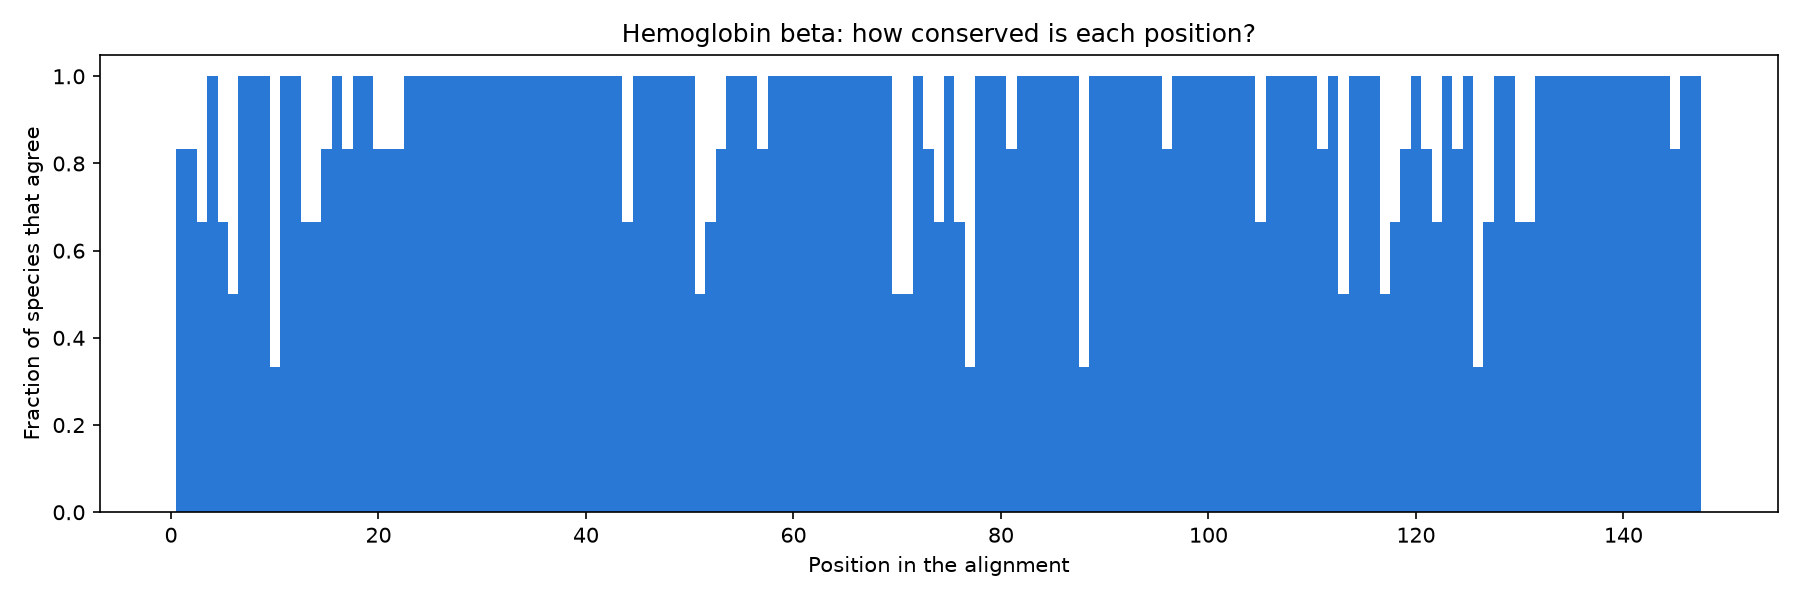
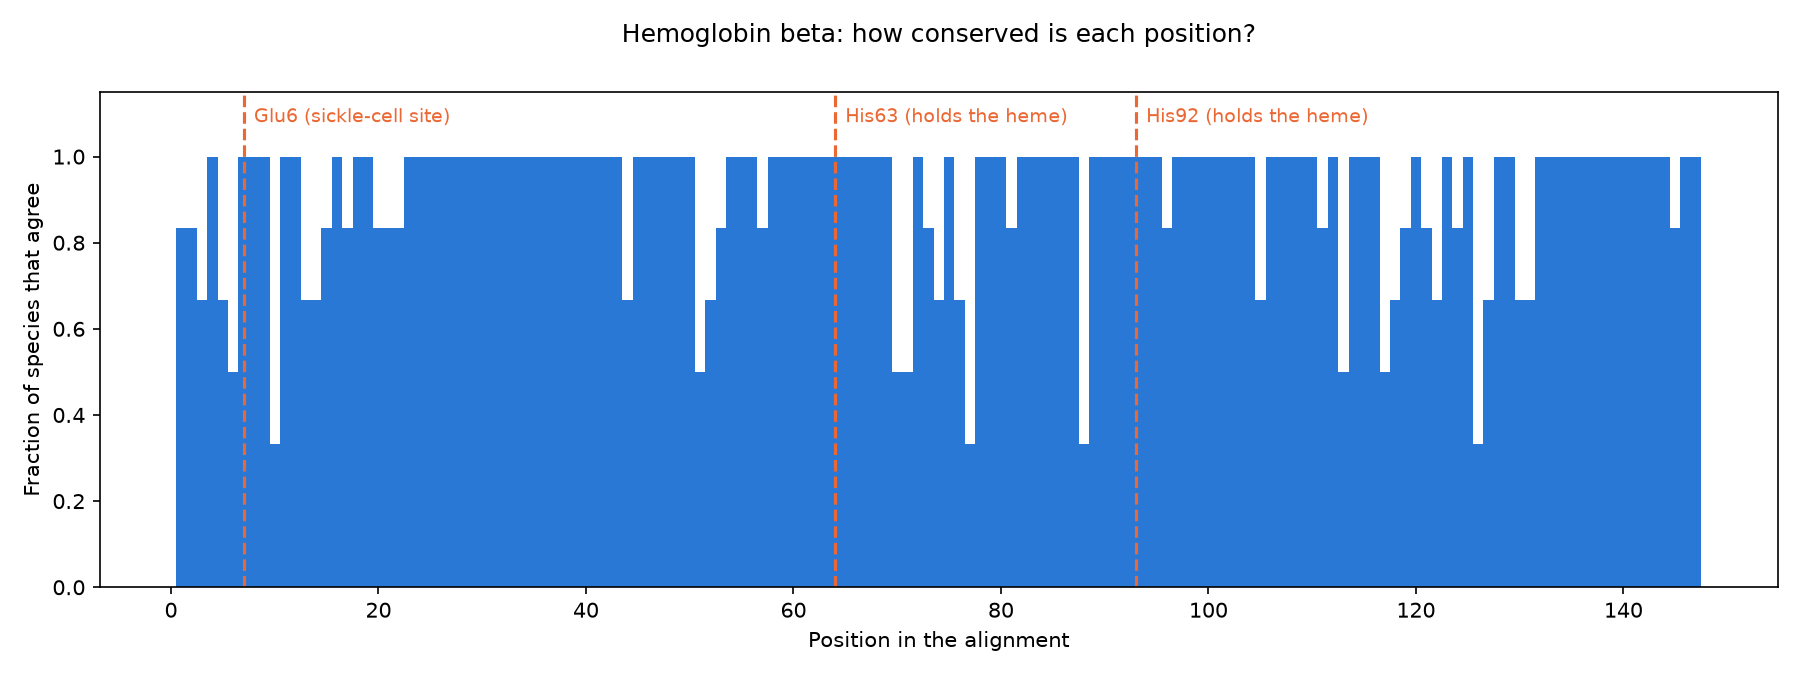
Mark sickle-cell and heme-binding sites on conservation chart

diff --git a/conservation.py b/conservation.py
@@ -17,12 +17,41 @@ for i in range(length):
 print("Positions in the alignment:", length)
 print("Identical in every species:", scores.count(1.0))
 
-plt.figure(figsize=(12, 4))
+# Find the human sequence, so we can mark positions in human numbering
+human = None
+for record in alignment:
+    if record.id == "Homo_sapiens":
+        human = str(record.seq)
+
+def column_of(position):
+    """Turn a position in the human protein into a column in the alignment."""
+    count = 0
+    for col, letter in enumerate(human, start=1):
+        if letter != "-":
+            count += 1
+            if count == position:
+                return col
+
+# Positions counted from the first M. Biologists skip the M, so their numbers are 1 lower.
+key_sites = {
+    7: "Glu6 (sickle-cell site)",
+    64: "His63 (holds the heme)",
+    93: "His92 (holds the heme)",
+}
+
+plt.figure(figsize=(12, 4.5))
 plt.bar(range(1, length + 1), scores, width=1.0, color="#2a78d6")
+
+for position, label in key_sites.items():
+    col = column_of(position)
+    plt.axvline(col, color="#eb6834", linestyle="--", linewidth=1.5)
+    plt.text(col + 1, 1.08, label, color="#eb6834", fontsize=9)
+    print(label, "-> column", col, "- agreement:", round(scores[col - 1], 2))
+
 plt.xlabel("Position in the alignment")
 plt.ylabel("Fraction of species that agree")
-plt.title("Hemoglobin beta: how conserved is each position?")
-plt.ylim(0, 1.05)
+plt.title("Hemoglobin beta: how conserved is each position?", pad=24)
+plt.ylim(0, 1.15)
 plt.tight_layout()
 plt.savefig("conservation.png", dpi=150)
 print("Saved conservation.png")
